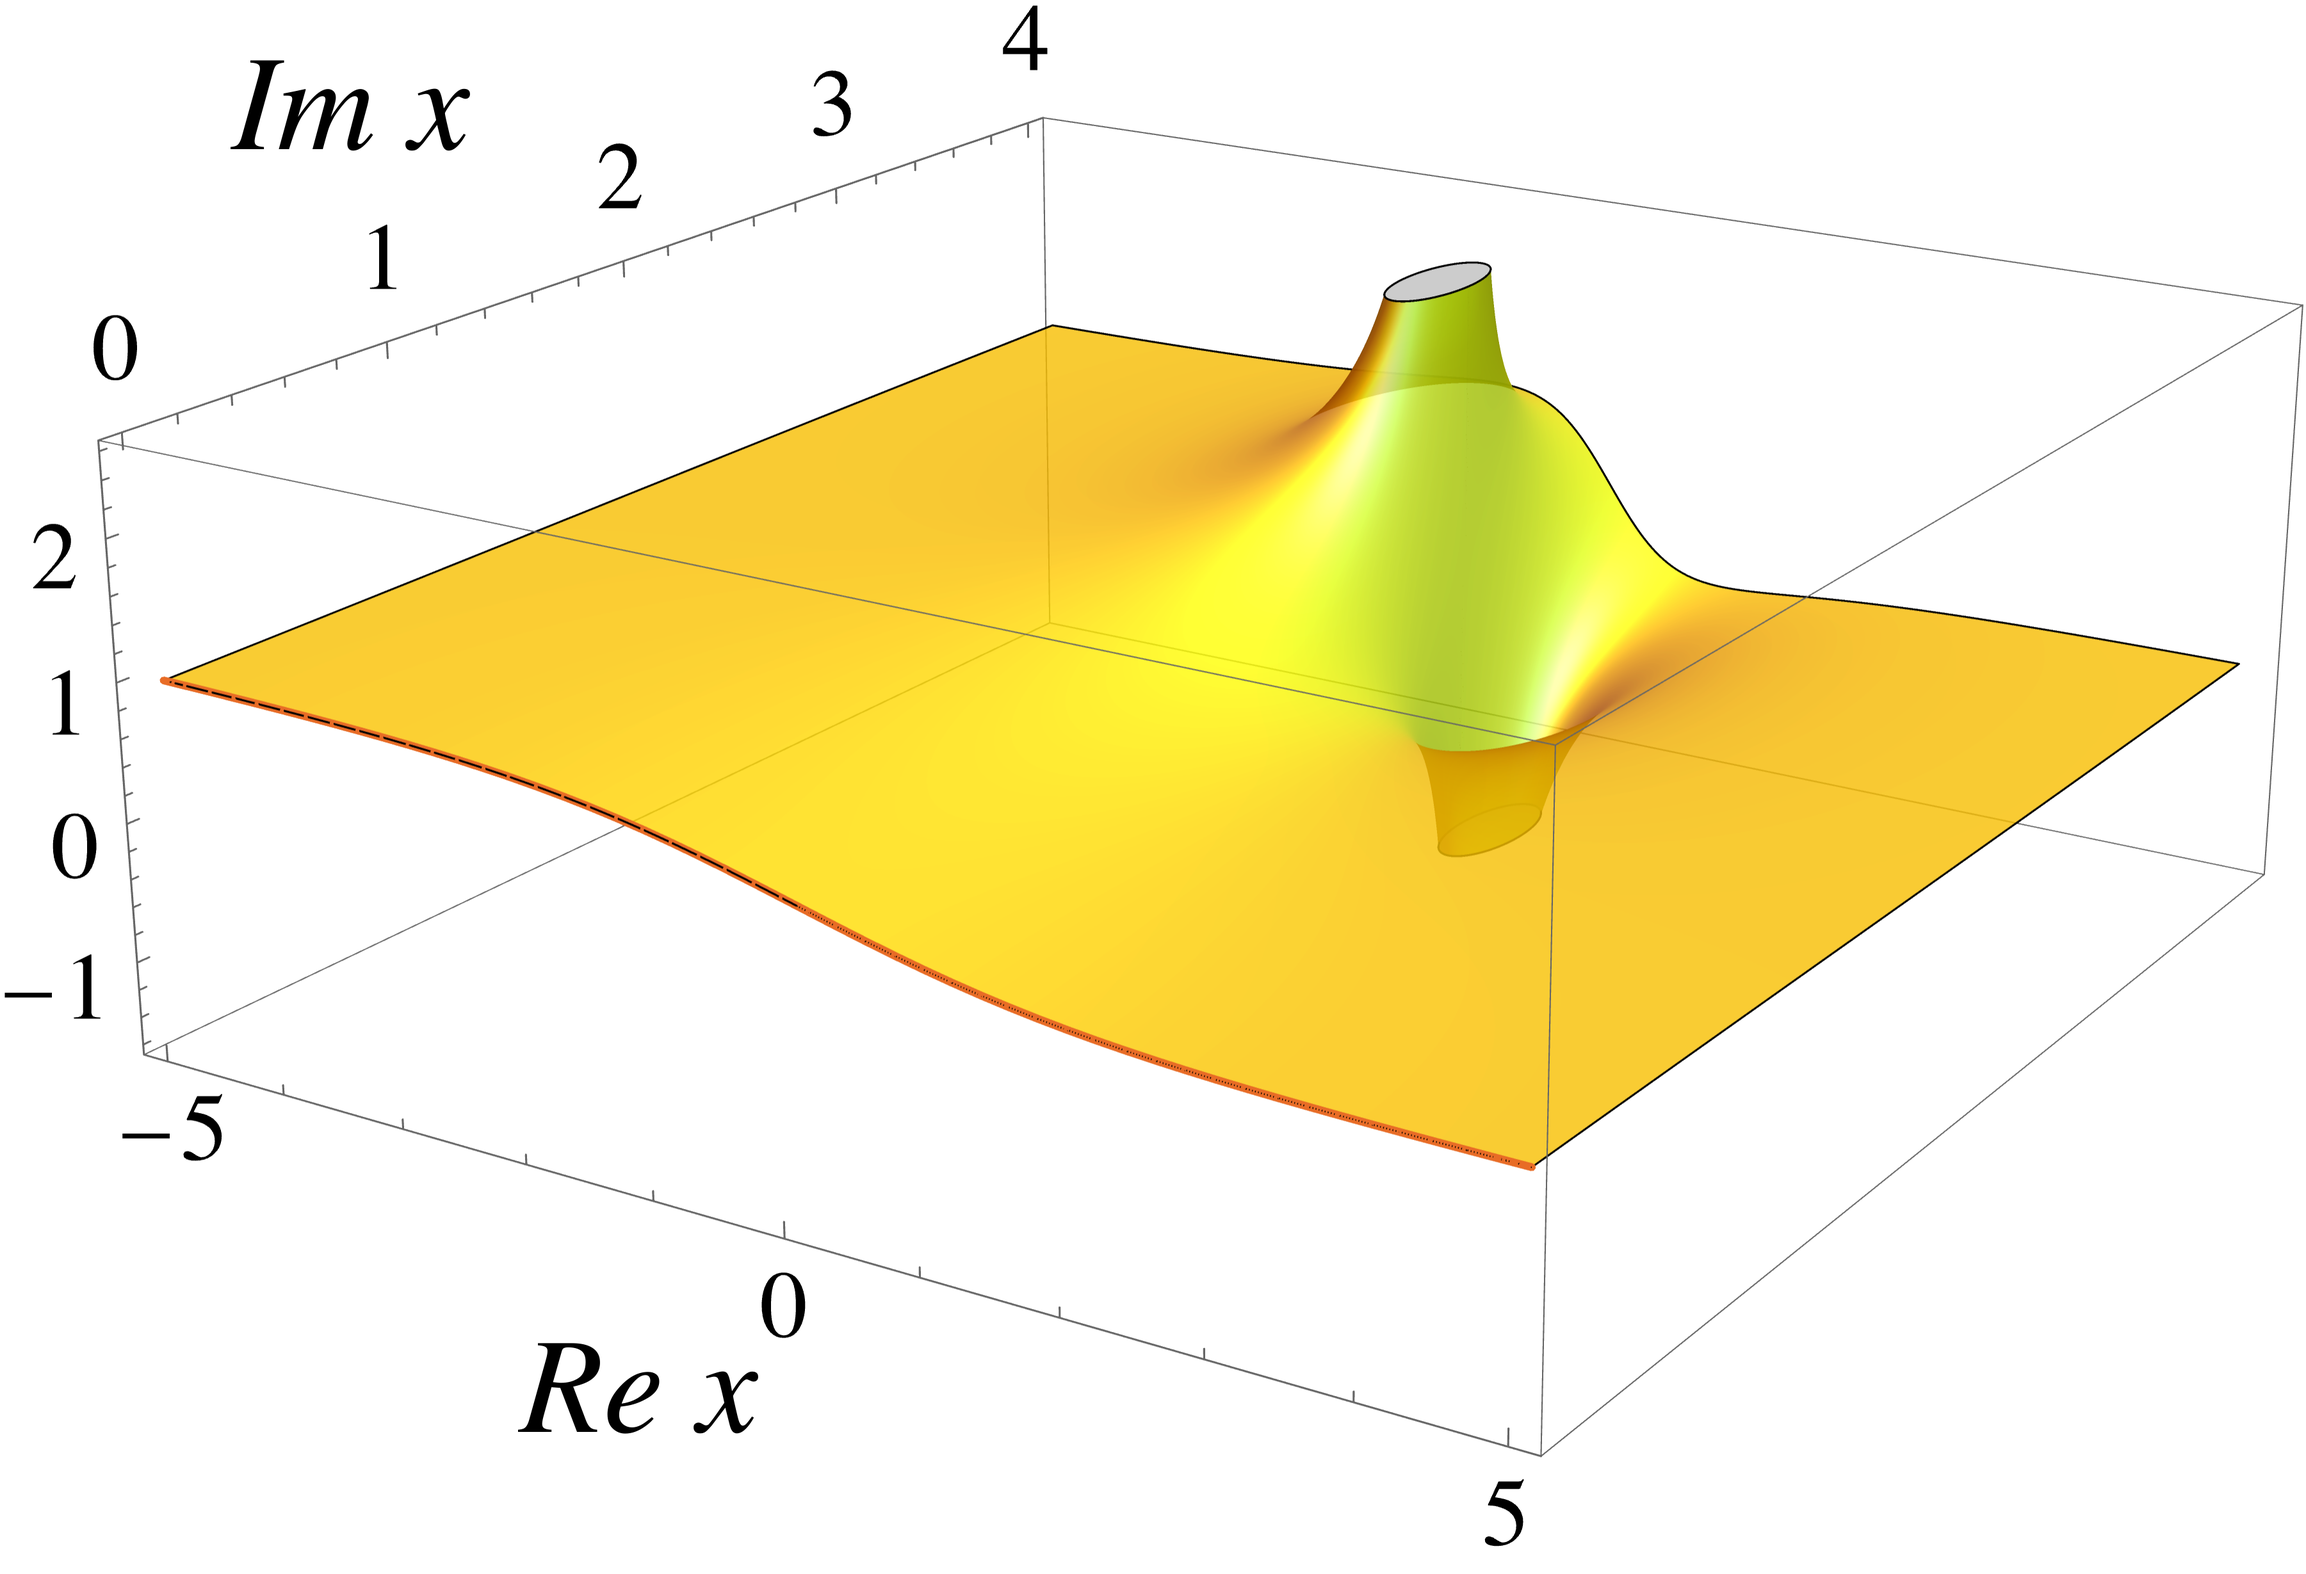
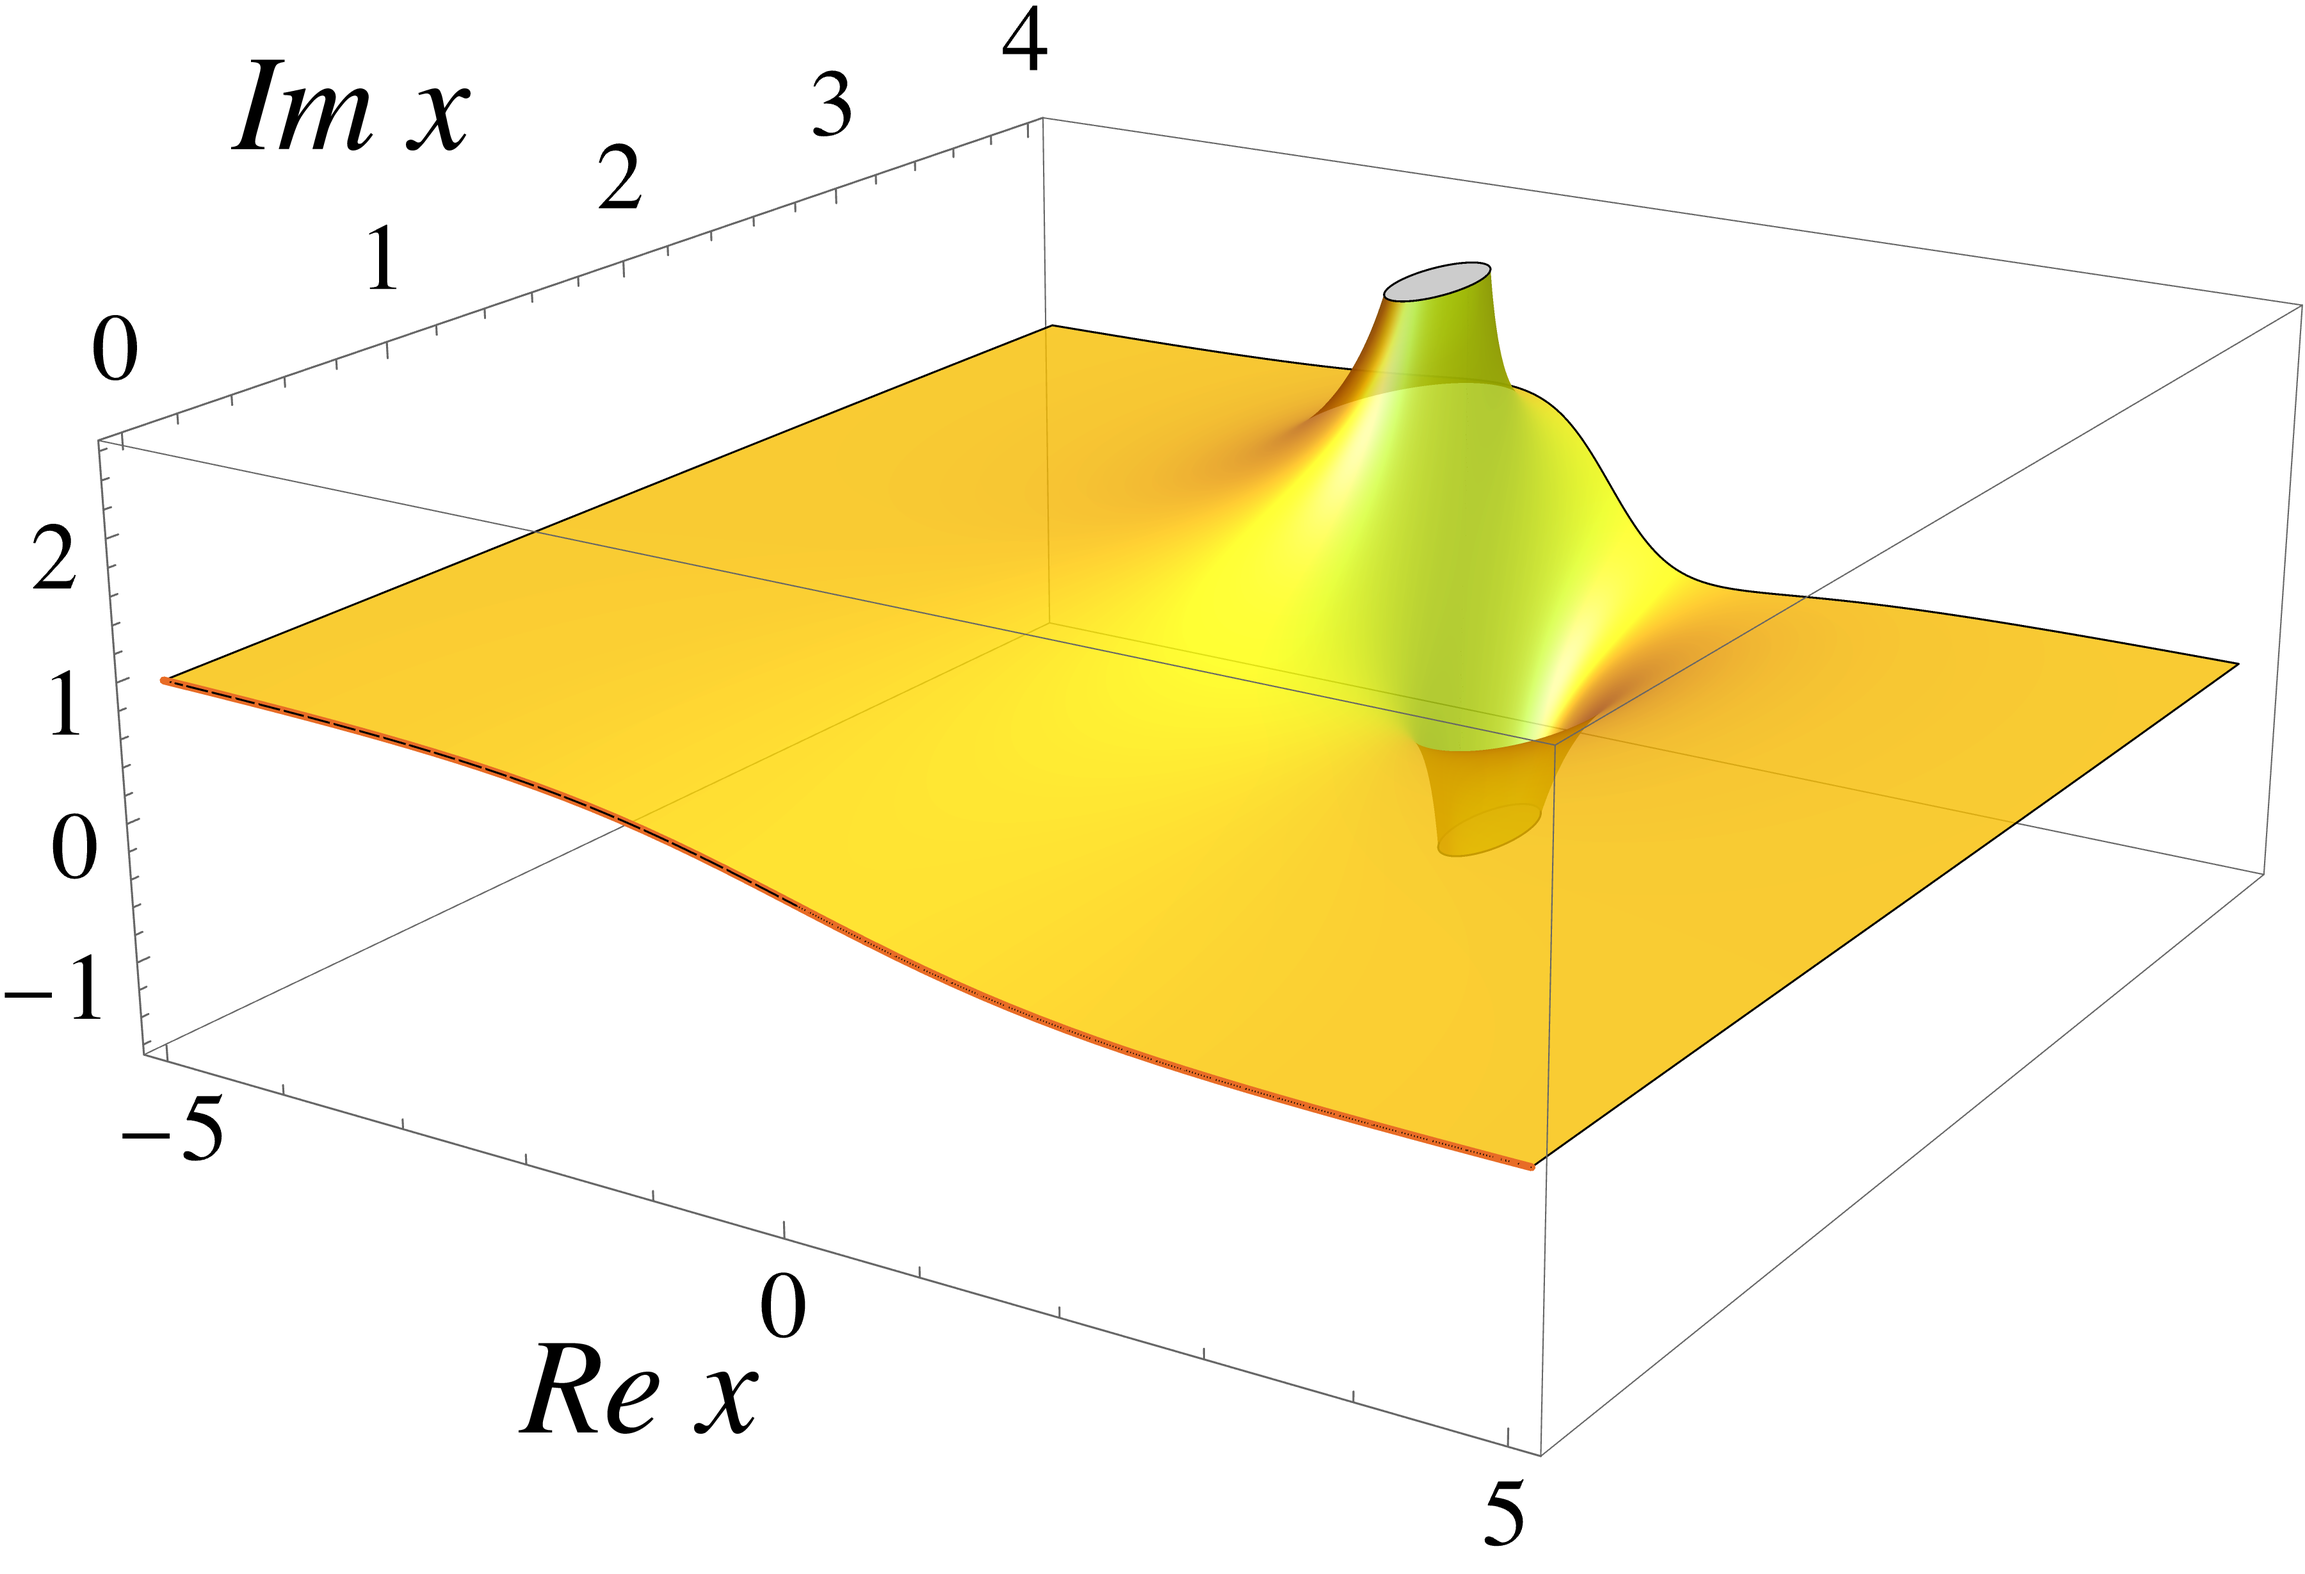
update

Changed region(s): [[0.9956, 0.1855, 1.0, 0.2783]]

diff --git a/slides.md b/slides.md
@@ -69,16 +69,33 @@ d=2:  H.-L. Xu and A. Zamolodchikov\\  JHEP 08 (2022) 057 (2022)
 
 ---
 
+### Quantum Chromodynamics
+
+## <img src="img/img-29-1.jpg" width="45%">
+
+Quarks and gluons are building blocks of most of the visible mass in the
+Universe <!-- .element: class="r-fit-text" -->
+
+---
+
+### Relativistic Heavy-Ion collider
+
+## <img src="img/BNL.png" width="55%">
+
+---
+
+### Heavy-Ion collision
+
+## <img src="img/RHIChot.jpeg" width="80%">
+
+---
+
 ### QCD phase diagram
-
-- This talk is about universal properties near a second order phase transition
-
-- Motivation: QCD phase diagram
 
 <img src="img/phase.png" width="55%">
 
 The only phase diagram of Standard Model of fundamental particles that can be
-studied in laboratory
+studied in laboratory <!-- .element: class="r-fit-text" -->
 
 ---
 
@@ -88,31 +105,58 @@ studied in laboratory
 
 <div class="col" data-markdown>
 
-- Lattice MC is one of the leading methods to study QCD
+- Lattice Monte-Carlo is one of the leading methods to study QCD
 
 - Sign problem limits utility of the method to zero _real_ baryon chemical
   potential:
 
   - Taylor series expansion at $\mu_B =0$
-  - Calculations at purely imaginary $\mu_B$
 
 - To learn about _real_ baryon chemical potential: analytic continuation
 
-</div>
-
-<div class="col" data-markdown>
-
-<img  src="img/qcdpd.png" width="70%">
-
-</div>
-
-</div>
-
-- Analytic continuation requires knowledge of analytic structure
+  - Analytic continuation requires knowledge of analytic structure
 
 - Reversely, analytic structure can help reveal QCD phase structure
 
-- Thus, there is an important question to consider
+---
+
+### Taylor series expansion
+
+$$
+ f(x) = \sum_{i=0}^{\infty} \frac{1}{i!}  f^{(i)}(0) x^{i}
+$$
+
+- What limits the range of $x$?
+
+--
+
+$$
+ f(x) = \sum_{i=0}^{\infty} \frac{1}{i!}  f^{(i)}(0) x^{i}
+$$
+
+- What limits the range of $x$?
+
+<img src="img/func.png" style="background-color:white;"  width="35%">
+
+--
+
+$$
+ f(x) = \sum_{i=0}^{\infty} \frac{1}{i!}  f^{(i)}(0) x^{i}
+$$
+
+- What limits the range of $x$?
+
+<img src="img/expans.png" style="background-color:white;"  width="35%">
+
+--
+
+$$
+ f(x) = \sum_{i=0}^{\infty} \frac{1}{i!}  f^{(i)}(0) x^{i}
+$$
+
+- What limits the range of $x$?
+
+<img src="img/func3d.png" style="background-color:white;"  width="35%">
 
 ---
 
@@ -122,37 +166,56 @@ studied in laboratory
 
 ---
 
+### Are they universal?! <!-- .element: class="r-fit-text" -->
+
+---
+
+### Universality
+
+- Divergent $\xi$: a large number of degrees of freedom are strongly correlated;
+  perturbative methods fail
+
+- Divergent $\xi$: no sensitivity to microscopic details $\leadsto$ universality
+
+- Divergent $\xi$: the only relevant features are
+
+  - number of dimension
+  - global symmetry
+
+<img src="img/Univ.png" style="background-color:white;"  width="35%">
+
+---
+
 ### Second-order phase transition: Landau model
 
-- To set up the stage, introduce notation and relevant concepts, best to
-  consider Landau model
+- L. Landau (1937): Phase transitions $\equiv$ manifestations of broken
+  symmetry;
+
+- Generalized order parameter measures symmetry breaking
 
 `\[ F = \int d^{d} x \left(  \frac{1}{2} {\color{red} t} \phi^2 + \frac{1}{4}  \lambda \phi^4 - {\color{blue} h} \phi   \right) \]`
 
-E.g.:
+Order parameters $\phi$:
 
-- near chiral limit: ${\color{red} t} \propto T-T_c + \kappa \mu^2$,
-  ${\color{blue} h}\propto m_{u,d}$
-- near CP:
-  ${\color{red}t},{\color{blue}h} \propto \alpha_{t,h}(T-T_c) + \beta_{t,h} (\mu-\mu_c)$
-- near RW: ${\color{red}t} \propto T-T_{RW}$,
-  ${\color{blue}h}\propto \mu_B - i \pi T$
+- Ferromagnet $\leadsto$ magnetization
+- Fluid $\leadsto$ density of gas - density of fluid
+- Confinement in Yang-Mills theory $\leadsto$ Polyakov loop
 
----
+--
 
 ### Vary $h$
 
 <img src="img/isingvh.png" width="42.5%">
 <img src="img/firstorderising.png" width="40%">
 
----
+--
 
 ### Vary $t$
 
 <img src="img/isingpdvt.png" width="42.5%">
 <img src="img/secondorderising.png" width="40%">
 
----
+--
 
 ### Magnetic equation of state
 
@@ -185,7 +248,7 @@ ${ \color{red}{\frac{t}{ h^{2/3}}} } {\color{Emerald}f_G}  + {\color{Emerald}f_G
   ($\beta = 1/2, \delta=3$)
   $${\color{Emerald} f_G} ( {\color{red}{z}}  + {\color{Emerald}f_G}^2) = 1, \quad {\color{red}{ z  =  {\frac{t}{ h^{\frac1{\beta \delta}} }} } }$$
 
----
+--
 
 ### Yang-Lee edge singularity
 
@@ -227,7 +290,7 @@ ${ \color{red}{\frac{t}{ h^{2/3}}} } {\color{Emerald}f_G}  + {\color{Emerald}f_G
 
 <div class="r-stack">
 <img class="fragment fade-out" data-fragment-index="0" src="img/complexfg.png"  width=40.5%>
-<img class="fragment  current-visible" data-fragment-index="0"  src="img/complexfgBM.png"  width=39%>>
+<img class="fragment  current-visible" data-fragment-index="0"  src="img/complexfgBM.png"  width=39%>
 </div>
 
 <div class="cite">
